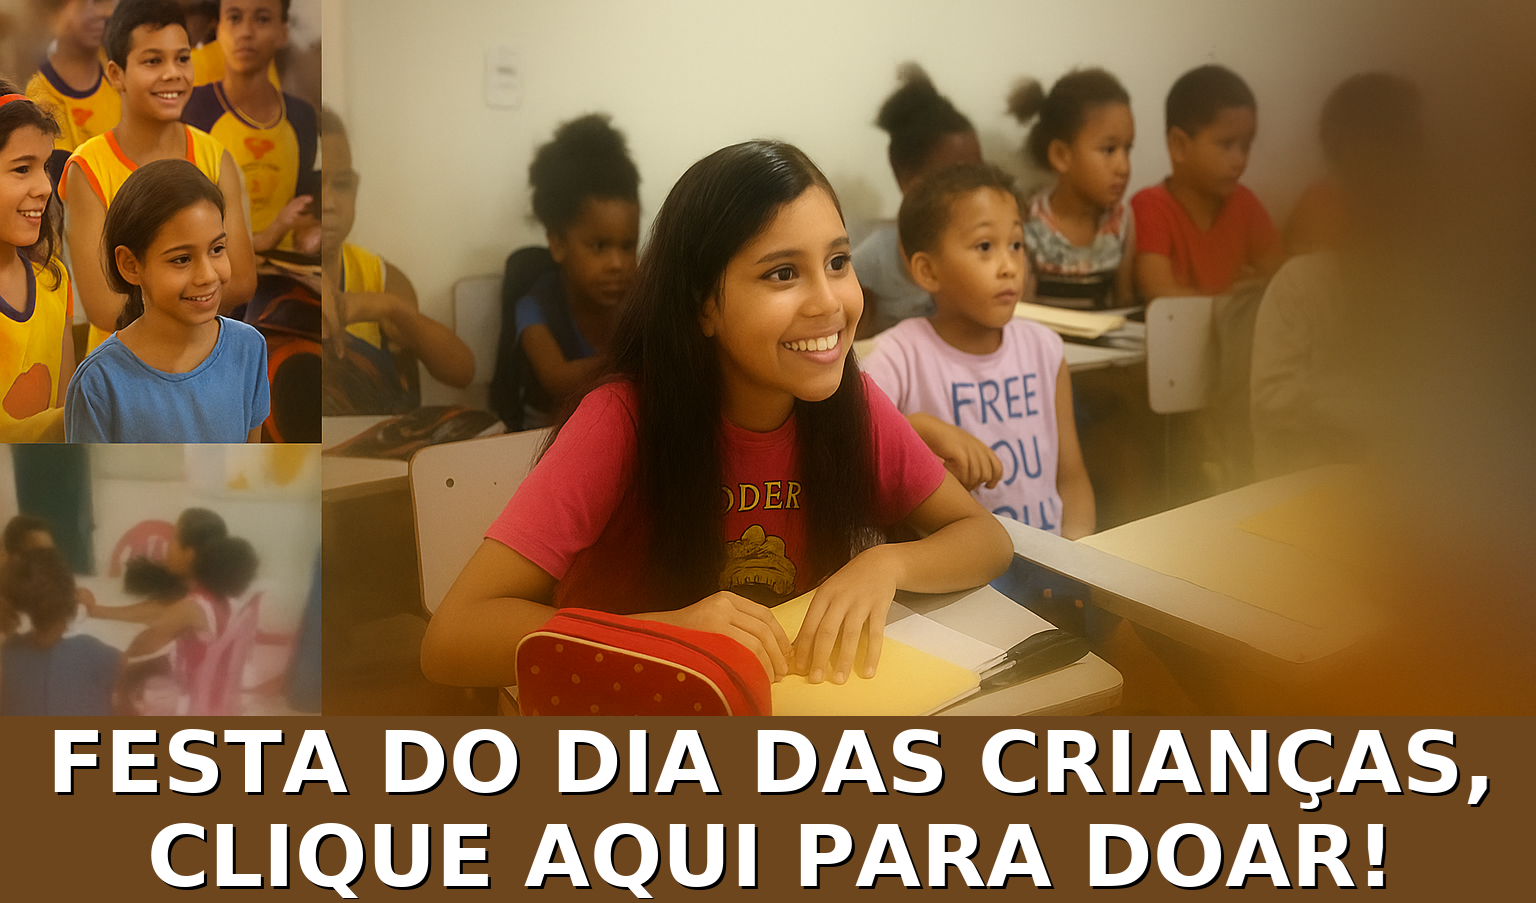
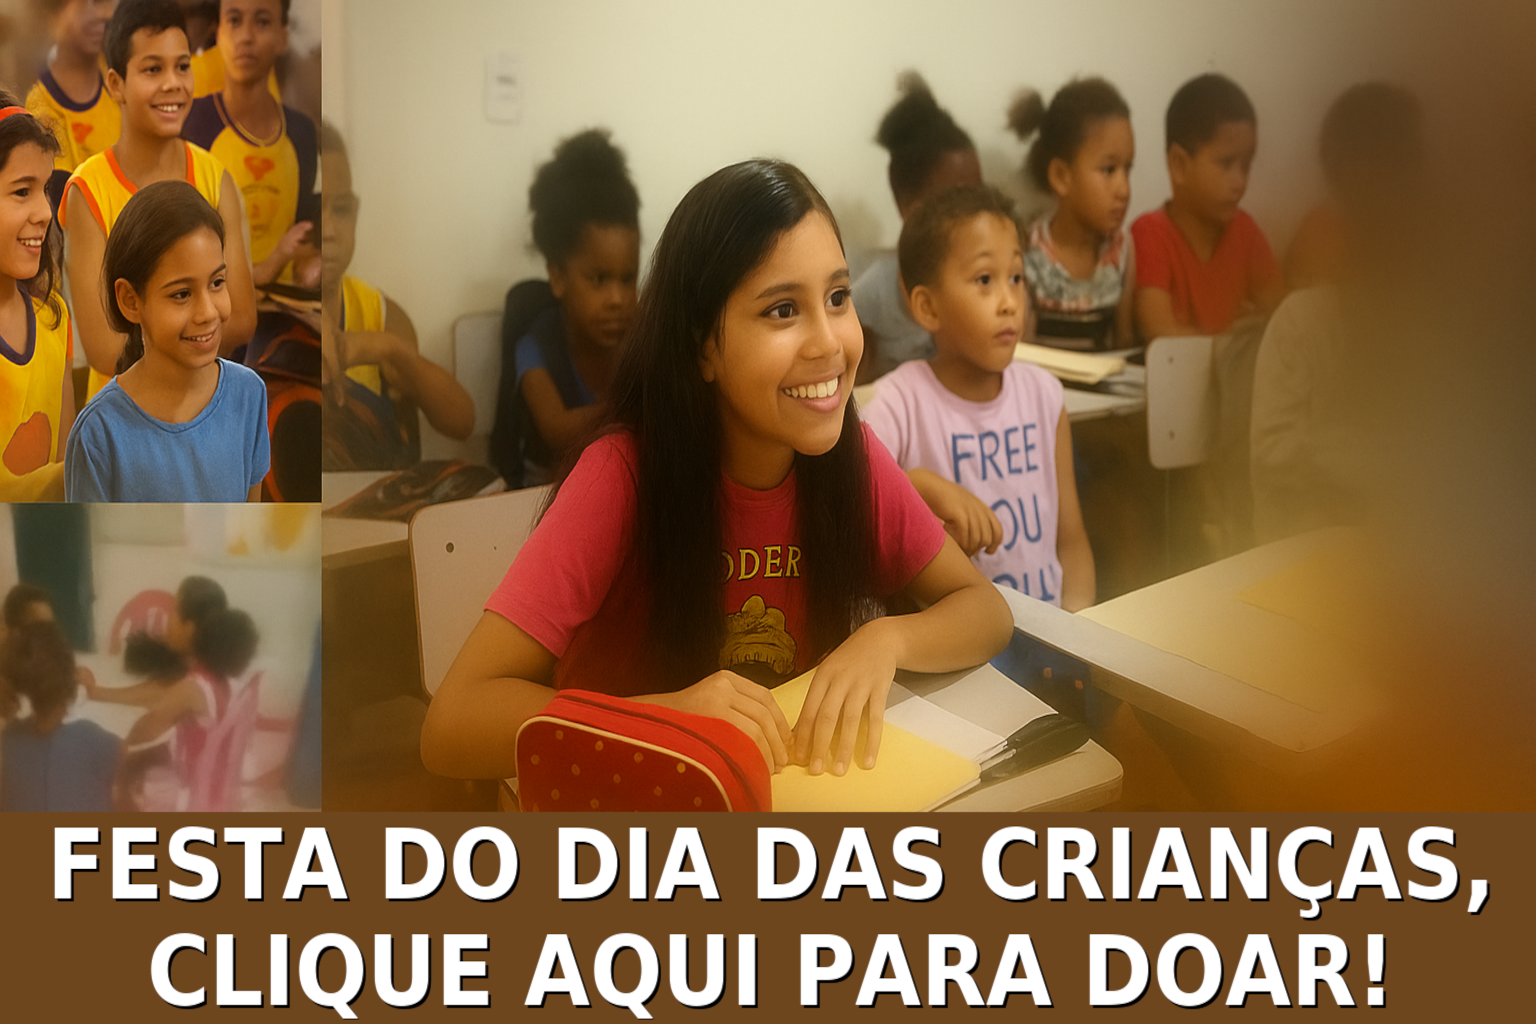
Todas as imagens normatizadas em 1536 1024 e carrossel com cover.

diff --git a/css/style.css b/css/style.css
@@ -342,8 +342,10 @@ nav li:hover a {
 .slides1 img, .slides2 img, .slides3 img {
   width: 100%;
   height: 100%;
-  object-fit: fill; /* mostra a imagem inteira */
+  /* object-fit: fill;  */
   background: #000; /* bordas laterais se a proporção não bater */
+  object-fit: cover; /* mostra imagem inteira sem cortar */
+
 }
 
 
@@ -434,6 +436,9 @@ input[type="radio"] { display: none; }
 }
 
 
+.carousel1::after {
+  content: none !important;
+}
 
 
 /********************************************

diff --git a/diadascriancas2025.html b/diadascriancas2025.html
@@ -478,7 +478,7 @@
                     <img src="images/carrossel1/upup_carrossel_1_img4.jpg" alt="Curso Sebrae - UPUP">
                 </a>
                 <a href="#">
-                    <img src="images/carrossel1/upup_carrossel_1_img5.jpg" alt="Passeata Centro de Natividade - UPUP">
+                    <img src="images/carrossel1/upup_carrossel_1_img5_2.png" alt="Contamos com vocês! - UPUP">
                 </a>
 
             </div>
